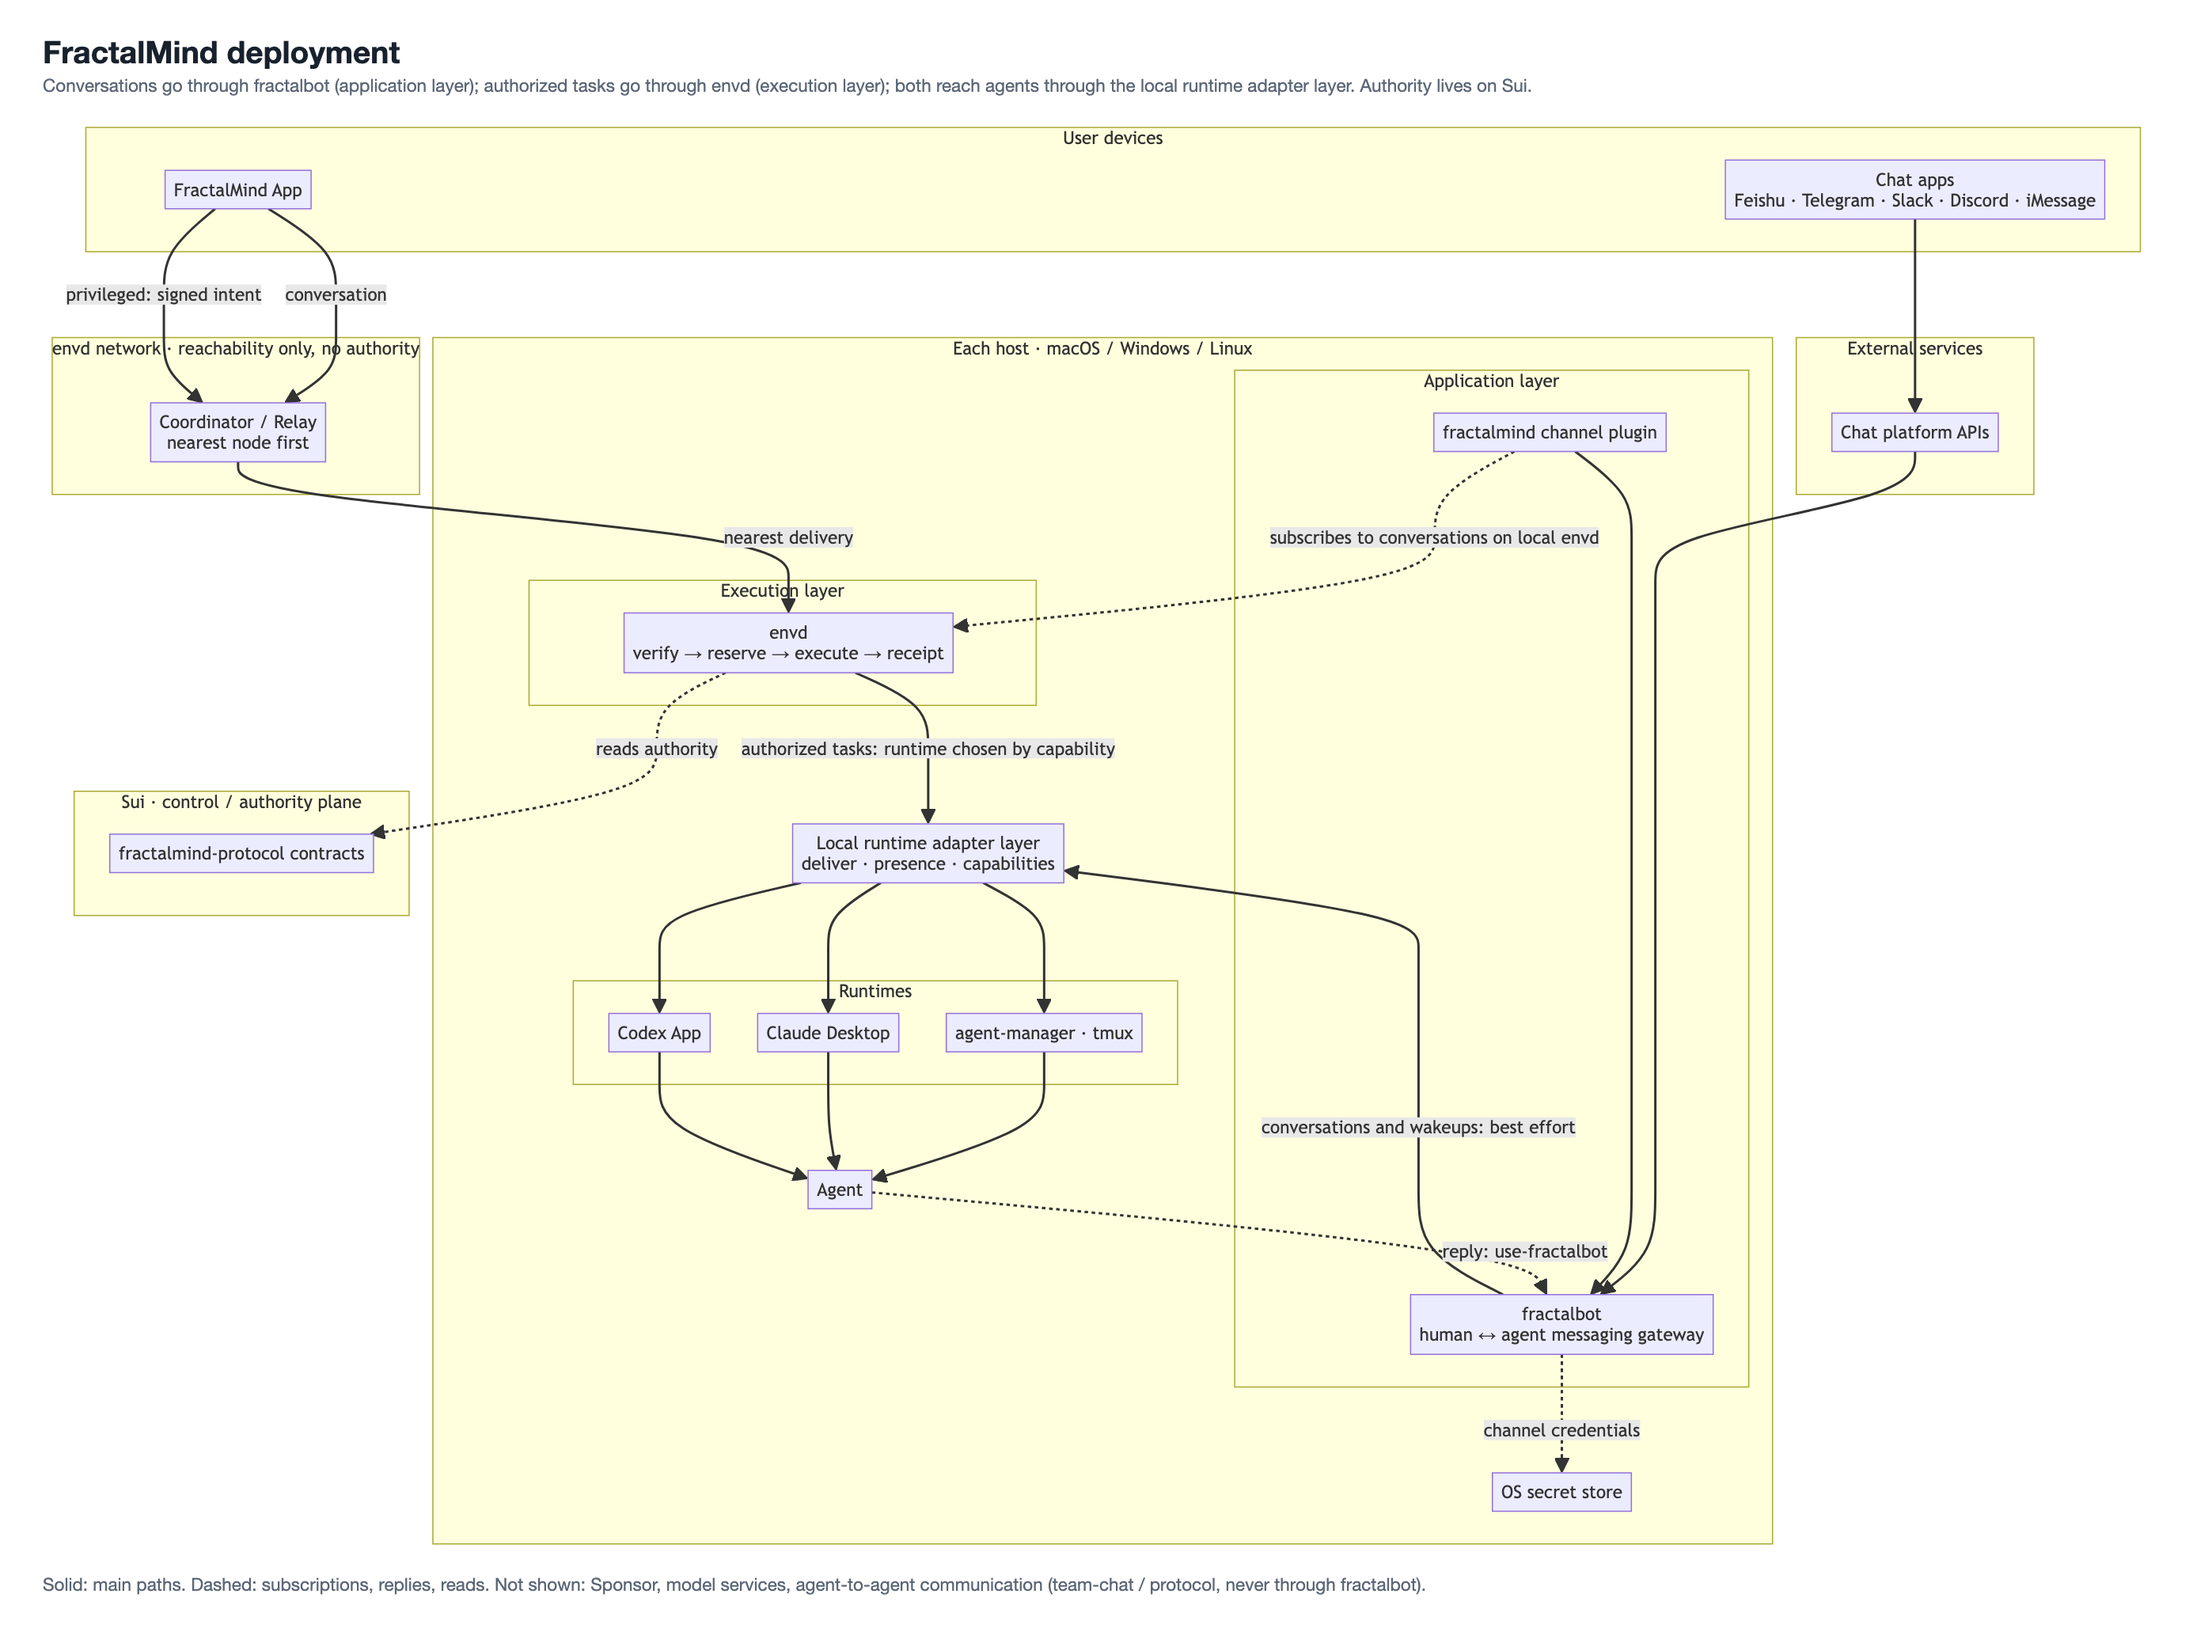
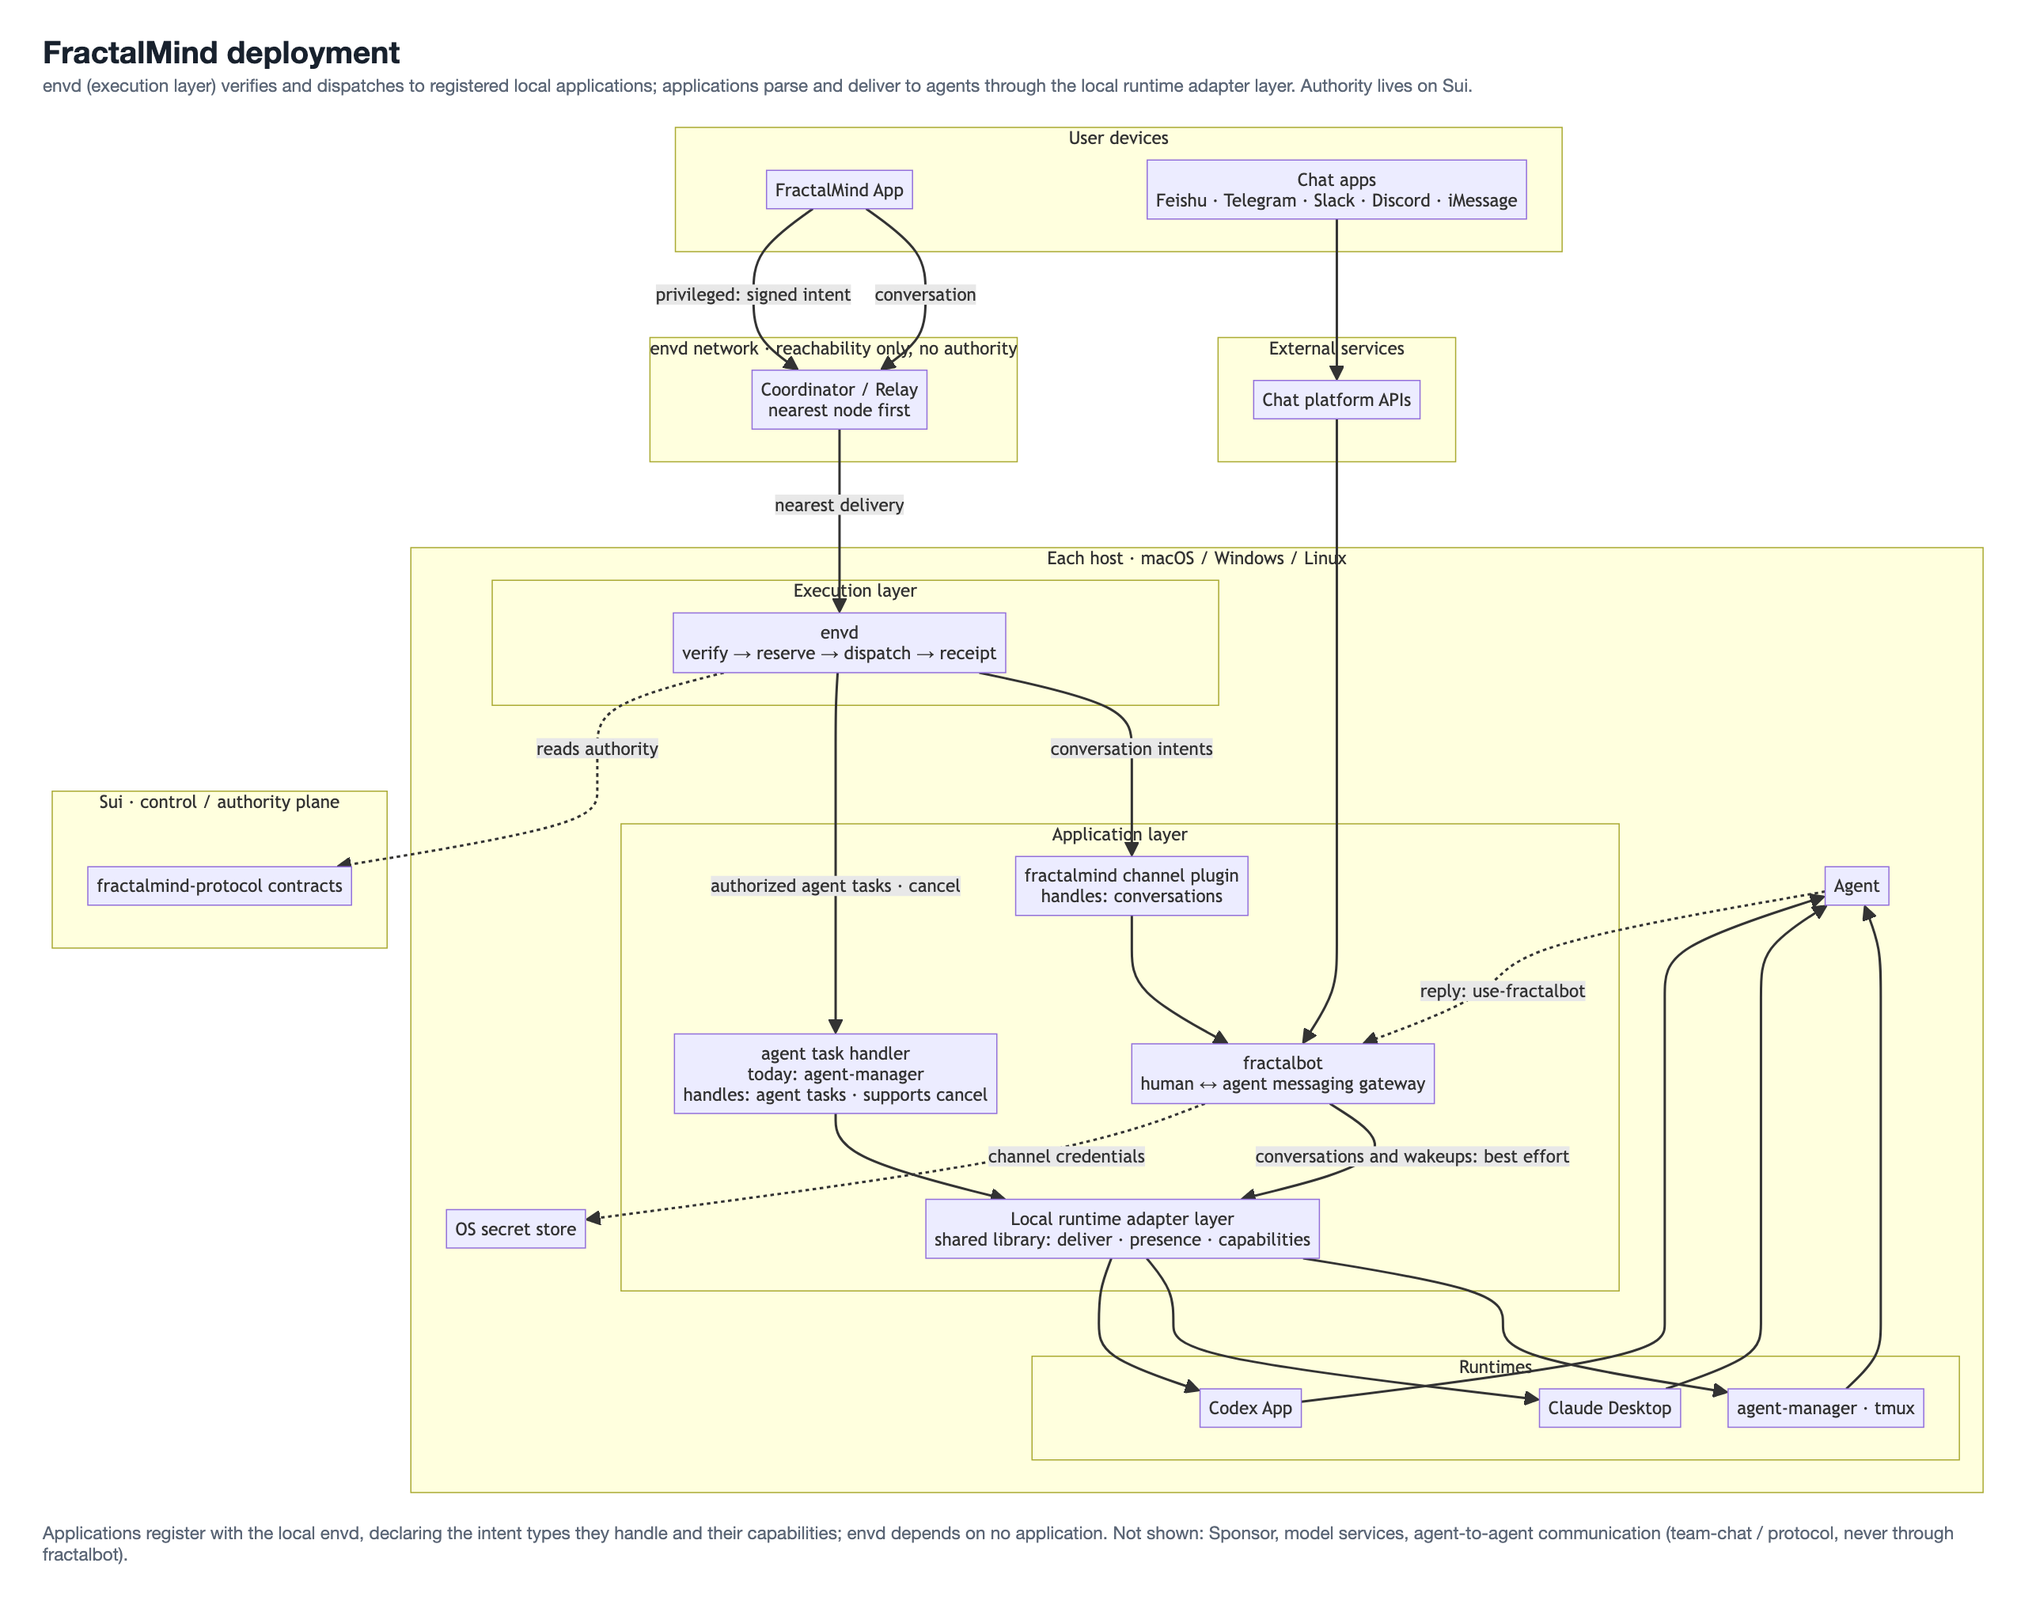
docs: envd dispatches to registered applications; adapter layer moves to the application layer
envd now verifies, reserves, dispatches by intent type to locally
registered applications and writes receipts. It no longer uses the local
runtime adapter layer or knows about runtimes. Applications (the
fractalmind channel plugin, the agent task handler) parse and execute;
revocable intents go only to applications that declare cancel.

The local runtime adapter layer is an application-layer Go library
embedded by fractalbot and the agent task handler, coordinated through
versioned on-disk conventions.

diff --git a/docs/site/docs/architecture/deployment.md b/docs/site/docs/architecture/deployment.md
@@ -4,20 +4,22 @@ This page shows what runs where. It applies the [three-plane architecture](/arch
 
 > Status: target deployment, agreed on 2026-10-18. Parts of it are still being migrated; see [Current state](#current-state).
 
-![FractalMind deployment: user devices, the envd network, each host with fractalbot, envd, the local runtime adapter layer and three runtimes, and Sui](/architecture/deployment.png)
+![FractalMind deployment: user devices, the envd network, each host with envd dispatching to registered applications, fractalbot and an agent task handler delivering through the local runtime adapter layer to three runtimes, and Sui](/architecture/deployment.png)
 
 ## Each host
 
-Every host that runs agents has two layers, and both reach agents through one shared adapter layer:
+Every host that runs agents has an execution layer and an application layer. envd verifies and dispatches; applications parse and deliver:
 
 ```text
-              Application layer                    Execution layer
-   chat apps ─▶ fractalbot ◀─ fractalmind channel ─┐   envd ◀─ envd network
-                   │            (optional plugin)  └──▶ (subscribes)
-                   │ conversations, wakeups              │ authorized tasks
-                   │ best effort                         │ runtime chosen by capability
-                   ▼                                     ▼
-              ┌──────────── local runtime adapter layer ────────────┐
+   envd network ─▶ envd                     execution layer
+                   verify · reserve · dispatch · receipt
+                    │ conversation intents          │ authorized agent tasks, cancel
+                    ▼                               ▼
+   chat apps ─▶ fractalbot                    agent task handler     application layer
+               (+ fractalmind channel plugin)  (today: agent-manager)
+                    │ best effort                   │
+                    ▼                               ▼
+              ┌──────────── local runtime adapter layer (library) ──┐
               │        deliver · presence · capabilities            │
               └──────┬───────────────────┬───────────────────┬──────┘
                      ▼                   ▼                   ▼
@@ -29,47 +31,59 @@ Every host that runs agents has two layers, and both reach agents through one sh
 
 | Component | Layer | Responsible for | Not responsible for |
 | --- | --- | --- | --- |
+| envd | Execution | The local endpoint of the envd network and the authorization boundary: verify, replay protection, budget, reserve, dispatch to the registered application for the intent type, propagate cancellation, receipt | Parsing intents; knowing about runtimes or how to reach agents |
 | fractalbot | Application | Human ↔ agent messaging on this host's channels; delivering conversations and scheduled wakeups to local agents | Authorization; forwarding to other hosts; agent-to-agent messaging |
-| `fractalmind` channel plugin (optional) | Application | Subscribing to App conversations that arrive at the local envd and handing them to fractalbot | Authorization |
-| envd | Execution | The authorization and execution boundary for privileged commands: verify, replay protection, budget, reserve, execute, receipt. The local endpoint of the envd network | Routing ordinary conversations |
-| Local runtime adapter layer | Shared | Delivering to a runtime, reporting presence, declaring capabilities | Any authorization or interpretation of content |
+| `fractalmind` channel plugin (optional) | Application | Registers with the local envd for conversation intents and hands them to fractalbot as channel messages | Authorization |
+| Agent task handler (today: agent-manager) | Application | Registers with the local envd for agent tasks; parses and executes them; supports cancel; reports results | Accepting tasks that did not come through envd |
+| Local runtime adapter layer | Application (library) | Delivering to a runtime, reporting presence, declaring runtime capabilities | Any authorization or interpretation of content |
 | agent-manager, Claude Desktop, Codex App | Runtime | Where agents run | — |
 
 ## Three decisions
 
-1. **App conversations travel over the envd network, nearest node first.** They reach the target host's envd; the optional `fractalmind` channel plugin subscribes there and hands them to fractalbot. Only that plugin depends on envd.
+1. **App conversations travel over the envd network, nearest node first.** They reach the target host's envd, which dispatches them to the optional `fractalmind` channel plugin, which hands them to fractalbot. Only that plugin depends on envd.
 2. **fractalbot does not forward across hosts.** If the addressed agent is not on this host, fractalbot replies that it cannot find it. Its core never depends on envd.
-3. **fractalbot and envd do not depend on each other.** fractalbot is an application-layer component. envd no longer calls agent-manager directly; both use a local runtime adapter layer extracted from fractalbot's runtime support, with agent-manager as one adapter.
+3. **envd verifies and dispatches; applications parse and execute.** envd depends on no application and knows nothing about runtimes. Applications register with the local envd, declaring the intent types they handle and their capabilities. fractalbot is an application-layer component.
 
-Dependency direction: **fractalbot → local runtime adapter layer ← envd**.
+Dependency direction: **applications → envd registration interface** (optional for each application), and **applications → local runtime adapter layer**. envd depends on neither.
+
+## Application registration and dispatch
+
+An application registers with the local envd over a local, owner-restricted channel (for example a Unix socket with file permissions limited to the host owner). Registration declares:
+
+| Declares | Meaning |
+| --- | --- |
+| Intent types | Which verified intents this application handles, for example conversations or agent tasks |
+| Capabilities | Whether it supports cancel and whether it keeps durable results |
+
+envd dispatches each verified intent to the application registered for its type. One check stays in envd because it is part of authorization: **an intent that must be revocable is dispatched only to an application that declares cancel**, and on revocation envd tells that application to stop. If no suitable application is registered, envd rejects the intent and records why.
+
+Trust: once an intent is verified, the application that receives it is on the trusted path, so it must accept intents only from envd. envd's receipt covers what was authorized, which application received it and whether it was revoked; the execution result is reported by the application. This is the same trust envd places in agent-manager today.
 
 ## Local runtime adapter layer
 
-A standalone Go package that knows how to reach agents in each runtime. It does not import fractalbot or envd and makes no authorization decisions.
+A Go library in the application layer that knows how to reach agents in each runtime. fractalbot and the agent task handler each embed it; envd does not use it. It does not import fractalbot or envd and makes no authorization decisions.
 
 | Provides | Meaning |
 | --- | --- |
 | Deliver | Hand a message or task to an agent in a runtime; returns delivered, queued or failed |
 | Presence | Whether the agent can receive right now |
-| Capabilities | Direct delivery into a session, durable inbox, waking an idle session, **hard stop**, durable results |
+| Capabilities | Direct delivery into a session, durable inbox, waking an idle session, hard stop, durable results |
 
-| Consumer | How it uses the layer |
-| --- | --- |
-| fractalbot | Delivers conversations and wakeups, best effort, to any runtime |
-| envd | Delivers only tasks that passed authorization. Tasks that must be revocable go only to runtimes that declare hard stop (for example processes managed by agent-manager). envd keeps results and receipts itself |
+It is a library rather than a service so that fractalbot keeps running on its own and no extra process can inject into every local session. Processes that embed it coordinate through versioned on-disk conventions: the inbox format, relay locks and a per-agent delivery lock so concurrent deliveries to one agent do not interleave. It becomes a local service only if a runtime allows a single connection holder, file locks cannot resolve delivery conflicts, or one place must report every local agent's status.
 
 ## Two paths into an agent
 
 ```text
 Conversations and wakeups (application layer)
   chat app → chat platform API → local fractalbot
-  App → envd network (nearest) → target host envd → fractalmind channel plugin → fractalbot
+  App → envd network (nearest) → target host envd → fractalmind channel plugin (registered) → fractalbot
     → pick a local agent (or reply "not found")
     → runtime adapter layer, best effort → agent replies with use-fractalbot
 
 Authorized tasks (execution layer)
   capability (Sui) → signed intent → envd network → target host envd verifies
-    → durable reservation → runtime adapter layer, chosen by capability → receipt
+    → durable reservation → dispatch to the registered agent task handler
+    → handler parses and delivers through the runtime adapter layer → result → envd receipt
 ```
 
 A "yes" in a chat is never an approval. When a conversation needs a privileged action, the agent goes through the execution path.
@@ -79,7 +93,7 @@ A "yes" in a chat is never an approval. When a conversation needs a privileged a
 | Where | Components |
 | --- | --- |
 | Sui | `fractalmind-protocol` contracts: organization and agent identity, capabilities, delegation, revocation, use and budget |
-| Each host | fractalbot, envd, the local runtime adapter layer, runtimes, agents and their workspaces (memory, OKRs, task files), the OS secret store holding channel credentials |
+| Each host | envd, fractalbot, the agent task handler, the local runtime adapter layer, runtimes, agents and their workspaces (memory, OKRs, task files), the OS secret store holding channel credentials |
 | Network | Coordinator, relay, rendezvous and index caches for reachability and discovery; Sponsor for gas |
 | User devices | FractalMind App: conversations, host and agent management, remote console, signed intents, results. Agent Console is retired and its functions move into the App |
 
@@ -88,6 +102,7 @@ Hosts can run macOS, Windows or Linux. iMessage is available only on macOS.
 ## Current state
 
 - This is the target deployment; some repositories still contain compatibility paths.
-- The local runtime adapter layer does not exist yet. It will be extracted from fractalbot's runtime support during the fractalbot V2 work; envd moves to it once it is stable.
-- envd still calls agent-manager directly, and the `fractalmind` channel plugin is not implemented.
+- envd's existing `internal/runtimeadapter` already invokes agent-manager as a local process only after `NodeCommand` authorization, with fixed versioned request and result envelopes (see `runtime/fractalmind-envd/docs/local-runtime-adapter.md`). That is the first instance of dispatch to an application; the target generalizes it into registration by intent type, so envd stops naming agent-manager.
+- The local runtime adapter layer does not exist yet as a library. It will be extracted from fractalbot's runtime support during the fractalbot V2 work.
+- The `fractalmind` channel plugin is not implemented.
 - Agent Console is still in the repository; its retirement and the move of its functions into the App are tracked in the [App PRD](https://github.com/fractalmind-labs/fractalmind-os/blob/main/docs/product/fractalmind-app-prd.md).
